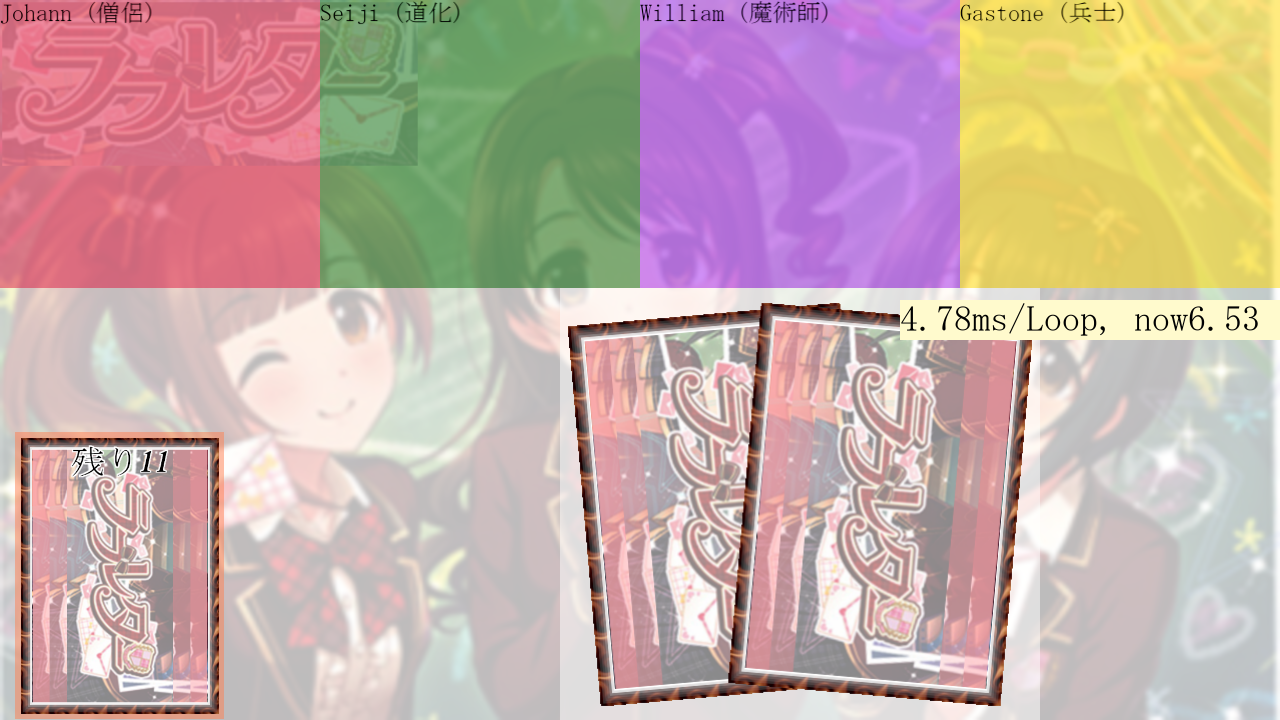
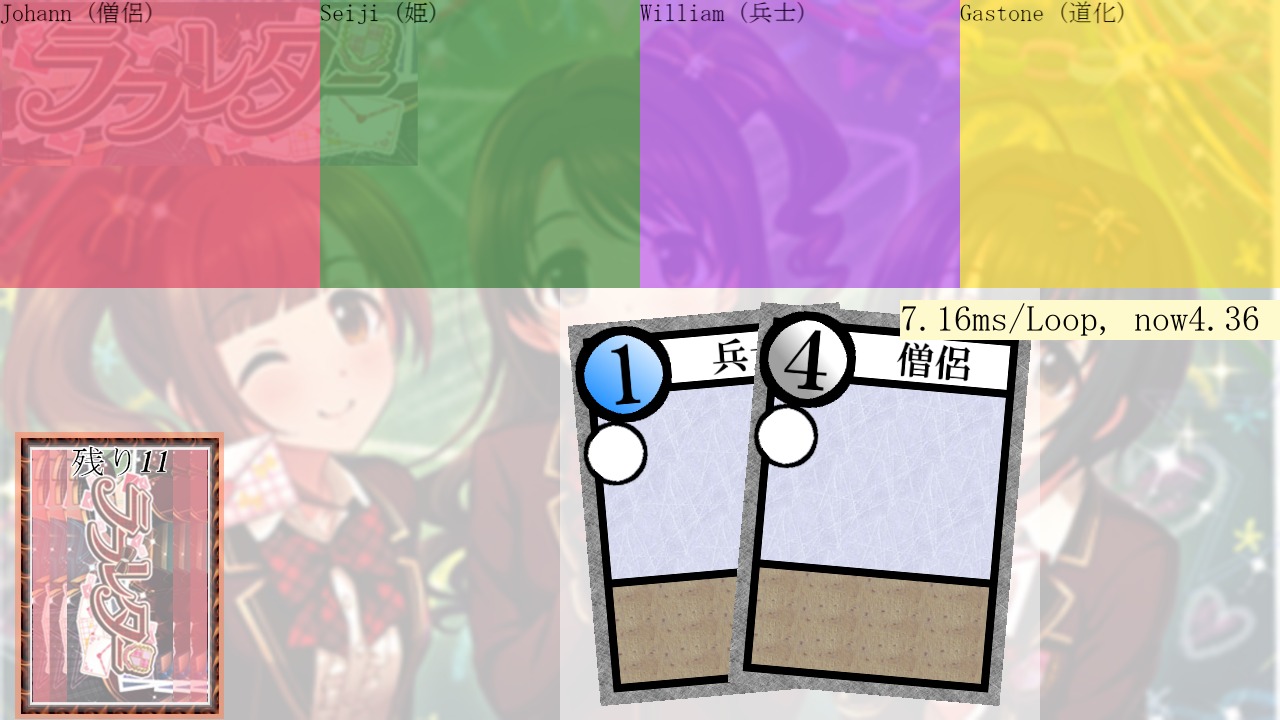
L086:カードの描画をHandSquareへ移管

diff --git a/ll/view/choice_square.py b/ll/view/choice_square.py
@@ -2,8 +2,8 @@ from pygame import Rect, Surface, SRCALPHA, transform, Vector2 as V2
 
 from any.screen import screen
 from any.func import rect_fill, ratio_rect, translucented_color
-from any.pictures import IMG_BACK
 from model.kard import Kard, EMPTY_KARD
+from view.hand_square import HandSquare
 from ptc.bridge import Bridge
 from ptc.element import Element
 
@@ -14,8 +14,9 @@ class ChoiceSquare():
     def __init__(self, rect: Rect, bridge: Bridge) -> None:
         self.rect = ratio_rect(rect=rect, ratio=self._RATIO)
         self.bridge = bridge
-        self.img = self._img()
         self.hands = self._now_hands
+        self.img = self._img()
+        self.hqs = self._hqs()
 
     def get_hover(self) -> Element | None:
         return None
@@ -26,22 +27,36 @@ class ChoiceSquare():
         if self.hands != self._now_hands:
             self.hands = self._now_hands
             self.img = self._img()
+            self.hqs = self._hqs()
         screen.blit(source=self.img, dest=self.rect)
+        for hq in self.hqs:
+            hq.draw()
 
     def _img(self) -> Surface:
         img = Surface(size=self._RATIO, flags=SRCALPHA)
         rect_fill(color=translucented_color("white"), rect=Rect((0, 0), self._RATIO), surface=img)
-        img_left = transform.rotozoom(surface=IMG_BACK, angle=5.0, scale=0.8)
-        img_right = transform.rotozoom(surface=IMG_BACK, angle=-5.0, scale=0.8)
-        img.blit(
-            source=img_left,
-            dest=V2(self._RATIO)/2-V2(img_left.get_size())/2-(80, 0)
-        )
-        img.blit(
-            source=img_right,
-            dest=V2(self._RATIO)/2-V2(img_left.get_size())/2+(80, 0)
-        )
         return transform.rotozoom(surface=img, angle=0.0, scale=self.rect.w/self._RATIO[0])
+    
+    def _hqs(self) -> list[HandSquare]:
+        print(V2(self.rect.center)+V2(80, 0))
+        return [] if EMPTY_KARD in self._now_hands else [
+            HandSquare(
+                kard=self.hands[0],
+                angle=5.0,
+                scale=0.8*self.rect.w/self._RATIO[0],
+                center=V2(self.rect.center)-V2(80, 0),
+                bridge=self.bridge,
+                canvas=screen
+            ),
+            HandSquare(
+                kard=self.hands[1],
+                angle=-5.0,
+                scale=0.8*self.rect.w/self._RATIO[0],
+                center=V2(self.rect.center)+V2(80, 0),
+                bridge=self.bridge,
+                canvas=screen
+            ),
+        ]
 
     @property
     def _now_hands(self) -> list[Kard]:

diff --git a/ll/model/deck.py b/ll/model/deck.py
@@ -4,14 +4,14 @@ from random import shuffle
 from model.kard import Kard
 
 _kard0 = Kard(name="(番兵)", png_file="")
-_kard1 = Kard(name="兵士", png_file="img1.png")
-_kard2 = Kard(name="道化", png_file="img2.png")
-_kard3 = Kard(name="騎士", png_file="img3.png")
-_kard4 = Kard(name="僧侶", png_file="img4.png")
-_kard5 = Kard(name="魔術師", png_file="img5.png")
-_kard6 = Kard(name="将軍", png_file="img6.png")
-_kard7 = Kard(name="大臣", png_file="img7.png")
-_kard8 = Kard(name="姫", png_file="img8.png")
+_kard1 = Kard(name="兵士", png_file="img1")
+_kard2 = Kard(name="道化", png_file="img2")
+_kard3 = Kard(name="騎士", png_file="img3")
+_kard4 = Kard(name="僧侶", png_file="img4")
+_kard5 = Kard(name="魔術師", png_file="img5")
+_kard6 = Kard(name="将軍", png_file="img6")
+_kard7 = Kard(name="大臣", png_file="img7")
+_kard8 = Kard(name="姫", png_file="img8")
 _kards = [_kard0, _kard1, _kard2, _kard3, _kard4, _kard5, _kard6, _kard7, _kard8]
 _ids = [1]*5+[2, 3, 4, 5]*2+[6, 7, 8]
 

diff --git a/ll/view/hand_square.py b/ll/view/hand_square.py
@@ -1,10 +1,7 @@
-from pygame import Rect, Surface, SRCALPHA, transform, Vector2 as V2, mouse, image
+from pygame import Surface, transform, Vector2 as V2, mouse
 from math import sin, cos, radians
 
-from any.screen import screen
-from any.func import rect_fill, ratio_rect, translucented_color, cursor_in_rect
-from any.pictures import IMG_BACK
-from model.kard import Kard, EMPTY_KARD
+from model.kard import Kard
 from ptc.bridge import Bridge
 
 from ptc.square import Square

diff --git a/ll/model/kard.py b/ll/model/kard.py
@@ -1,11 +1,13 @@
-from pygame import Surface, image
+from pygame import Surface
 from typing import NamedTuple
+
+from any.pictures import picload
 
 class Kard(NamedTuple):
     name: str
     png_file: str
 
     def picture(self) -> Surface:
-        return image.load(self.png_file).convert_alpha()
+        return picload(self.png_file)
 
 EMPTY_KARD = Kard(name="empty", png_file="")
